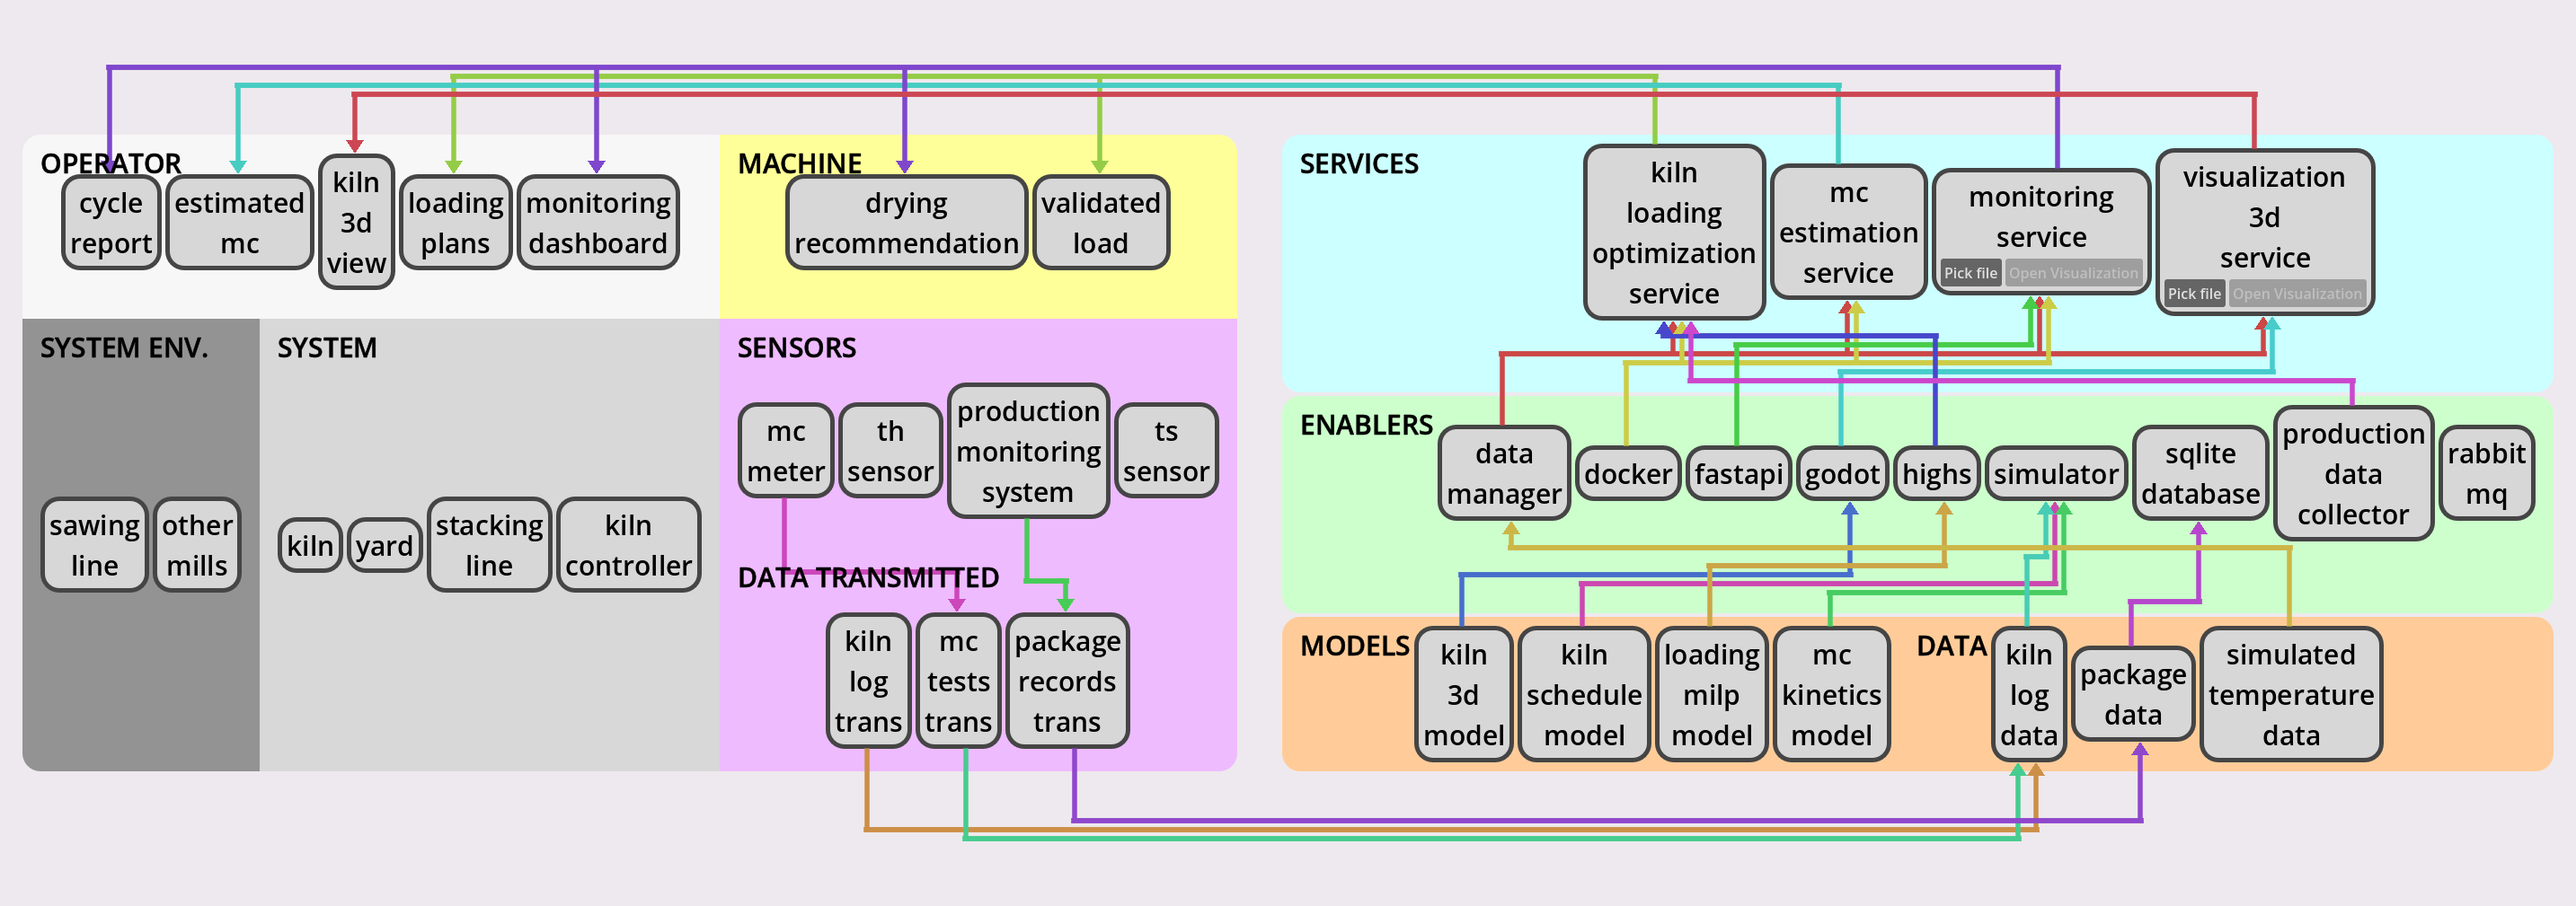
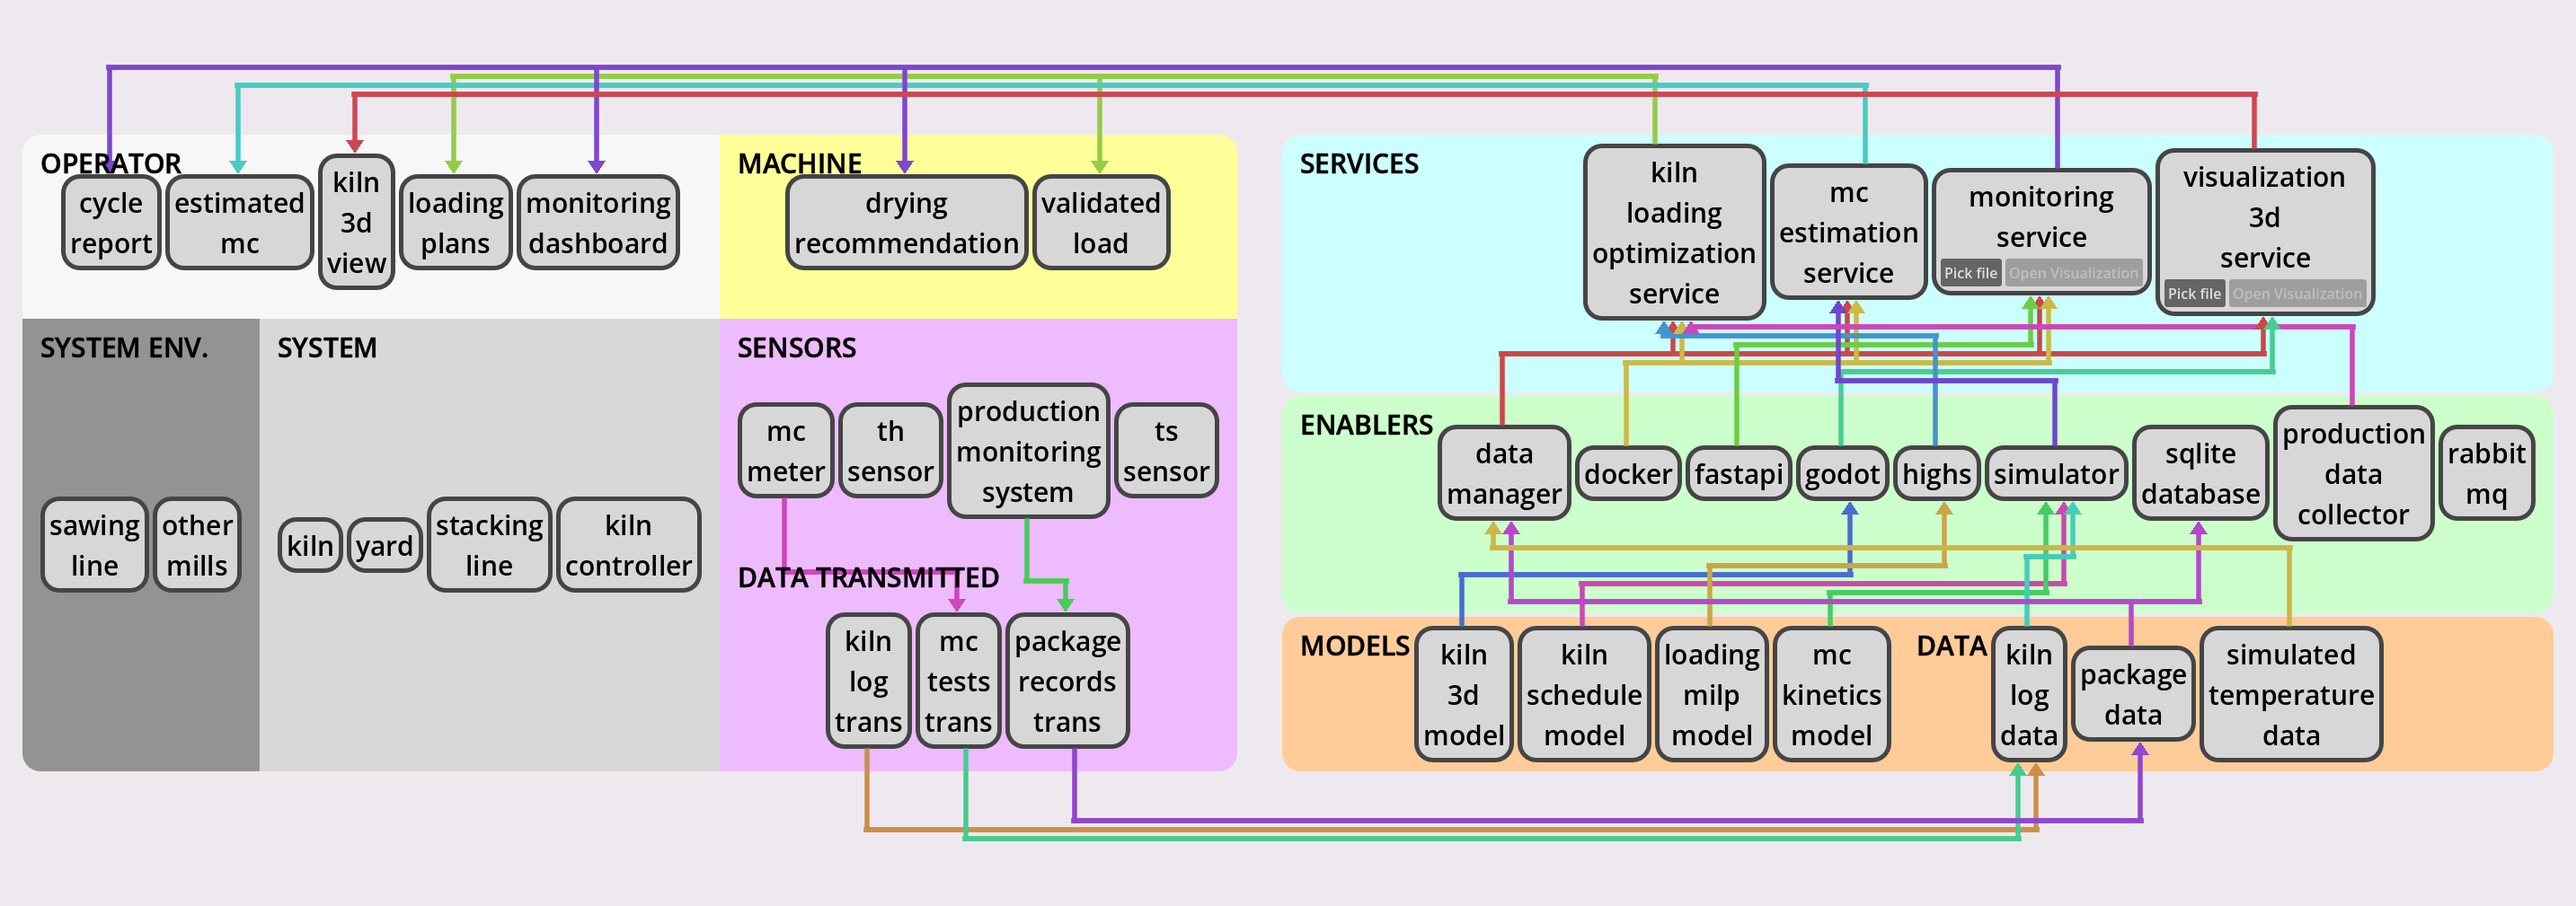
Added CI screenshot, characteristics table, and DTInsight web export for commit c94dae2582387e018234790adfbd888241e9bb4a

diff --git a/website/themes/my-theme/layouts/partials/characteristics-table.html b/website/themes/my-theme/layouts/partials/characteristics-table.html
@@ -57,7 +57,7 @@
         <tr>
 			<td class="characteristic-id">C<sub>11</sub></td>
             <td>Tooling and enablers</td>
-            <td>data_manager: Only accessor of the database: derives the available inventory from the package records and the validated loads, records the kiln state during drying, and provides these data to the services<br>docker: Docker containers: one container per service and one for the message broker<br>fastapi: Python FastAPI web server of the dashboard; relays operator requests to the services through RabbitMQ<br>godot: Godot game engine used for the 3D view of the kiln<br>highs: HiGHS MILP solver called through SciPy<br>simulator: Kiln simulator following the drying schedules of the sawmill; generates the dry-bulb and wet-bulb temperatures of the kiln<br>sqlite_database: SQLite database storing the package records, the validated loads, and the kiln state<br>production_data_collector: Collects the package records from the production monitoring system of the sawmill every hour<br>rabbit_mq: RabbitMQ message broker carrying all messages between the data manager, the services, and the 3D client</td>
+            <td>data_manager: Only accessor of the database: derives the available inventory from the package records and the validated loads, receives the kiln temperatures and the estimated MC during drying, and provides these data to the services<br>docker: Docker containers: one container per service and one for the message broker<br>fastapi: Python FastAPI web server of the dashboard; relays operator requests to the services through RabbitMQ<br>godot: Godot game engine used for the 3D view of the kiln<br>highs: HiGHS MILP solver called through SciPy<br>simulator: Kiln simulator following the drying schedules of the sawmill; generates the dry-bulb and wet-bulb temperatures of the kiln and sends them to the data manager<br>sqlite_database: SQLite database storing the package records, the validated loads, and the kiln state<br>production_data_collector: Collects the package records from the production monitoring system of the sawmill every hour<br>rabbit_mq: RabbitMQ message broker carrying all messages between the data manager, the services, and the 3D client</td>
 		</tr>
         <tr>
 			<td class="characteristic-id">C<sub>12</sub></td>
